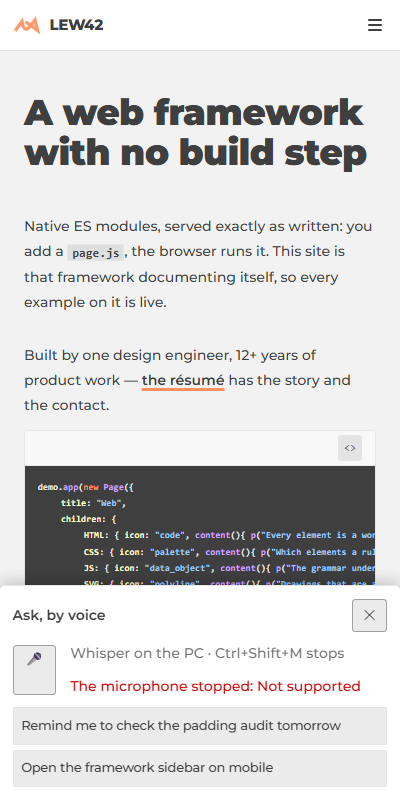
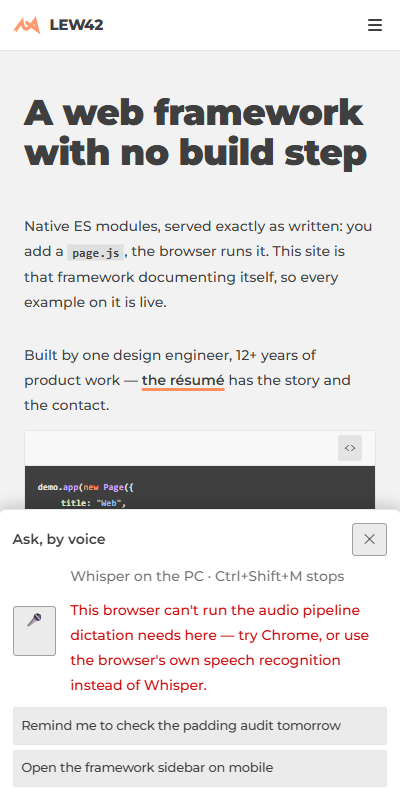
Mobile rail: second button reads ⋯ More, not a second ☰
Feedback after the first shots: deliverable 1 moved the page's own ☰
to the top of the screen on mobile, so a second ☰ "Menu" at the
bottom of the rail read as "press this again" instead of "here's
something else." Renamed to ⋯ "More" (title "AI sessions, dictation,
settings, admin"); the icon/label/title are prototype fields
(menu_icon/menu_label/menu_title), not hard-coded in menu_button(),
so the old ☰ "Menu" look isn't deleted — DrawerRail.V1 is a two-line
subclass that restores it verbatim.

Updated the doc page, readme and decisions.md to match, and reshot
step2-rail-400 (also copied into ext/drawer/rail/'s own doc-page
shots). Re-verified headless at 400 and 1920 on /, /framework/, and
both ext/drawer pages — zero unexpected console/page errors, zero
failed requests. (One transient error surfaced mid-check from the
other minion's in-flight edit to ux/Dictate/Dictate.js — confirmed
resolved on their end and unrelated to this change, per the minion
skill's "never measure while another agent is editing" rule.)

Changed region(s): [[0.0, 0.625, 1.0, 0.875]]

diff --git a/public/framework/ext/drawer/rail.js b/public/framework/ext/drawer/rail.js
@@ -5,10 +5,17 @@ import tabs from "./tabs.js";
 View.stylesheet(import.meta, "rail.css");
 
 /* THE MOBILE BOTTOM RAIL — below 52em only, the drawer's other way in (mobile-nav,
-   2026-09-29). Two controls: ✦ opens a small listening sheet (below), ☰ opens the
+   2026-09-29). Two controls: ✦ opens a small listening sheet (below), ⋯ opens the
    same right-side drawer every page already has (menu.js's own button, reachable
    here because that fixed corner button now steps aside for the page's own ☰ on a
    page with a sidebar — drawer.css, `.app:has(.sidebar) .drawer-menu`).
+
+   ⚠ `⋯ "More"`, not a second `☰ "Menu"` (the task mastermind, 2026-09-29): the
+   page's own ☰ is now the thing at the top of the screen on mobile (deliverable
+   1), so a SECOND ☰ down here read as "do this again" rather than "here's
+   something else." `menu_icon`/`menu_label`/`menu_title` are prototype fields,
+   not hard-coded in `menu_button()`, so the ☰/"Menu" look is not deleted — it
+   is `DrawerRail.V1` below, one subclass away.
 
    ⚠ A NORMAL flex child of `.app`, never `position: fixed` — `.app` is a
    `height: 100%; flex-direction: column` box with `.pages` as its one growing
@@ -52,14 +59,17 @@ export class DrawerRail extends View {
 			.click(() => this.open_sheet());
 	}
 
-	// ☰ — the drawer's own tabs (AI, Sessions, Dictation, Settings, Admin), the
-	// exact button menu.js already draws; this is just another way to reach it.
+	// The drawer's own tabs (AI, Sessions, Dictation, Settings, Admin), the exact
+	// button menu.js already draws; this is just another way to reach it. The
+	// icon/label/title are prototype fields (below), not written here, so a
+	// variant (`DrawerRail.V1`) can restore the old ☰ "Menu" look by overriding
+	// three values instead of this whole method.
 	menu_button(){
 		return button.c("drawer-rail-menu").attr("type", "button")
-			.attr("aria-label", "Menu — AI, sessions, dictation, settings")
+			.attr("title", this.menu_title).attr("aria-label", this.menu_title)
 			.append(() => {
-				span.c("drawer-rail-menu-icon", "☰");
-				span.c("drawer-rail-menu-label", "Menu");
+				span.c("drawer-rail-menu-icon", this.menu_icon);
+				span.c("drawer-rail-menu-label", this.menu_label);
 			})
 			.click(() => tabs.toggle());
 	}
@@ -145,6 +155,23 @@ export class DrawerRailSheet extends View {
 }
 
 DrawerRail.Sheet = DrawerRailSheet;
+
+// ⚠ On the prototype, not written inside `menu_button()` — `code` skill §2's own
+// rule ("defaults on the prototype"), and what lets `DrawerRail.V1` below change
+// the look by overriding three values instead of copying the whole method.
+DrawerRail.prototype.menu_icon = "⋯";
+DrawerRail.prototype.menu_label = "More";
+DrawerRail.prototype.menu_title = "AI sessions, dictation, settings, admin";
+
+/* v1 — the ☰ "Menu" button this replaced (the task mastermind, 2026-09-29: a
+   second ☰ down here, once the page's own ☰ moved to the top for deliverable 1,
+   read as "the same button twice"). Not deleted — `new DrawerRail.V1({ app })`
+   in place of `rail(app)`'s `new DrawerRail({ app })` brings it back verbatim. */
+export class DrawerRailV1 extends DrawerRail {}
+DrawerRailV1.prototype.menu_icon = "☰";
+DrawerRailV1.prototype.menu_label = "Menu";
+DrawerRailV1.prototype.menu_title = "Menu — AI, sessions, dictation, settings";
+DrawerRail.V1 = DrawerRailV1;
 
 // One rail per document, built the first time a page asks for it — same shape as
 // drawer.js's own singleton. Called from menu.js, so app.js needs no change: the

diff --git a/public/framework/ext/drawer/rail/page.js b/public/framework/ext/drawer/rail/page.js
@@ -13,16 +13,16 @@ const shot = name => new URL("shots/" + name, import.meta.url).href;
 export default new Page({
 	meta: import.meta,
 	title: "Mobile bottom rail",
-	description: "Below 52em: an ✦ AI button that opens a listening sheet, and a ☰ that reaches the drawer's tabs — the two ways into ext/drawer on a phone.",
+	description: "Below 52em: an ✦ AI button that opens a listening sheet, and an ⋯ More that reaches the drawer's tabs — the two ways into ext/drawer on a phone.",
 	icon: "smartphone",
 
 	content(){
 
 		h2("What it is");
 
-		md("Below 52em (about 832px), every page grows a small bar pinned to the bottom of the screen — two buttons: **✦** opens a listening sheet, **☰** opens this same drawer on its tabs. Above 52em neither one exists; the side drawer's own ☰ (top right) is the whole story there.");
+		md("Below 52em (about 832px), every page grows a small bar pinned to the bottom of the screen — two buttons: **✦** opens a listening sheet, **⋯ More** opens this same drawer on its tabs. Not a second ☰: the page's own ☰ already lives at the top of the screen there (deliverable 1's fix), so this button names what it actually is instead of repeating that glyph. Above 52em neither button exists; the side drawer's own ☰ (top right) is the whole story there.");
 
-		img().attr("src", shot("rail-400.png")).attr("alt", "The bottom rail at 400px: ✦ AI and ☰ Menu buttons, page content unobstructed above them")
+		img().attr("src", shot("rail-400.png")).attr("alt", "The bottom rail at 400px: ✦ AI and ⋯ More buttons, page content unobstructed above them")
 			.style({ maxWidth: "24em", width: "100%", border: "1px solid var(--line)", borderRadius: "0.4em", display: "block" });
 
 		md("**Tap ✦** and a small sheet slides up: it starts listening right away ([`ux/Dictate`](/framework/ux/Dictate/), its own `mode: \"open\"`), and every finished sentence becomes its own card — the list grows as you keep talking.");
@@ -49,6 +49,14 @@ class MyChecklistSheet extends DrawerRailSheet {
         // rail or the sheet needs to know this happened
     }
 }`);
+
+		md("The rail's own second button changed once already — it launched as a second ☰ \"Menu,\" and the task mastermind judged that a repeated glyph reads as \"do this again,\" not \"here's something else,\" now that the page's own ☰ lives at the top. Nothing was deleted: `menu_icon`/`menu_label`/`menu_title` are prototype fields, and `DrawerRail.V1` is the old look, kept as a subclass rather than a comment saying what used to be here:");
+
+		code.js(`import { DrawerRail } from "/framework/ext/drawer/rail.js";
+
+// menu.js calls \`rail(app)\`, which builds \`new DrawerRail({ app })\`.
+// A caller that wants the old look builds the variant class instead:
+new DrawerRail.V1({ app });   // ☰ "Menu", verbatim`);
 
 		h2("Why a normal flex row, not position: fixed");
 

diff --git a/public/framework/ext/drawer/doc/decisions.md b/public/framework/ext/drawer/doc/decisions.md
@@ -81,12 +81,24 @@ do.
 
 ## The mobile bottom rail (2026-09-29)
 
-`rail.js`/`rail.css` — below 52em, an ✦ button (a listening sheet) and a ☰ (this
-same drawer's tabs), pinned to the bottom of the screen. The side drawer above
-was not a template to copy for this: it is `position: fixed`, so it has to
-restate its own width as a `padding-inline-end` reservation on `.app`
-(`--rail-push`) to keep the page from sitting behind it — two numbers, kept in
-sync by hand.
+`rail.js`/`rail.css` — below 52em, an ✦ button (a listening sheet) and a second
+button (this same drawer's tabs), pinned to the bottom of the screen. The side
+drawer above was not a template to copy for this: it is `position: fixed`, so
+it has to restate its own width as a `padding-inline-end` reservation on
+`.app` (`--rail-push`) to keep the page from sitting behind it — two numbers,
+kept in sync by hand.
+
+- **The second button reads ⋯ "More", not ☰ "Menu" (the task mastermind,
+  2026-09-29, judging the first shots).** It launched as a second ☰, copying
+  menu.js's own glyph and label — but deliverable 1 (this same day) moved the
+  page's OWN ☰ to the top of the screen on mobile, so a second ☰ down here at
+  the bottom read as "press this again," not "here's something else," even
+  though it opens a different thing (the drawer, not the page's nav). `⋯
+  "More"` names what it actually is: a way to reach everything that doesn't
+  fit as its own button. The old glyph/label/title are prototype fields
+  (`menu_icon`, `menu_label`, `menu_title`), not hard-coded in `menu_button()`,
+  so nothing was deleted — `DrawerRail.V1` (a two-line subclass, `rail.js`)
+  restores the ☰ "Menu" look verbatim for anyone who wants it back.
 
 - **A plain, non-fixed flex child of `.app`, not `position: fixed` (the
   option actually chosen).** `.app` is already `height: 100%; display: flex;

diff --git a/public/framework/ext/drawer/readme.md b/public/framework/ext/drawer/readme.md
@@ -23,7 +23,7 @@ While it is open, a click selects any content on the page (`select.js`): its pro
 
 ## On a phone
 
-Below 52em a page with its own left-side sidebar (`core/Sidebar`) draws its own ☰ in that same top-right corner, so this drawer's fixed ☰ steps aside there instead of covering it. A small bar pinned to the bottom of the screen (`rail.js`, `rail.css`) is this drawer's other way in on a phone: an **✦** button opens a small sheet that starts listening (`ux/Dictate`, used only through its public API) and turns each finished sentence into its own card, and a **☰** button opens this same drawer on its tabs. Built as a class so a later variant only overrides one method (`Sheet.card()`) — screenshots, the seam and the layout decision behind it: [Mobile bottom rail](/framework/ext/drawer/rail/).
+Below 52em a page with its own left-side sidebar (`core/Sidebar`) draws its own ☰ in that same top-right corner, so this drawer's fixed ☰ steps aside there instead of covering it. A small bar pinned to the bottom of the screen (`rail.js`, `rail.css`) is this drawer's other way in on a phone: an **✦** button opens a small sheet that starts listening (`ux/Dictate`, used only through its public API) and turns each finished sentence into its own card, and an **⋯ "More"** button opens this same drawer on its tabs — not a second ☰, since the page's own ☰ already lives at the top of the screen there. Built as a class so a later variant only overrides one method (`Sheet.card()`), and the old ☰ "Menu" look stays reachable as `DrawerRail.V1` — screenshots, the seam and the layout decision behind it: [Mobile bottom rail](/framework/ext/drawer/rail/).
 
 ## Sharing it
 
